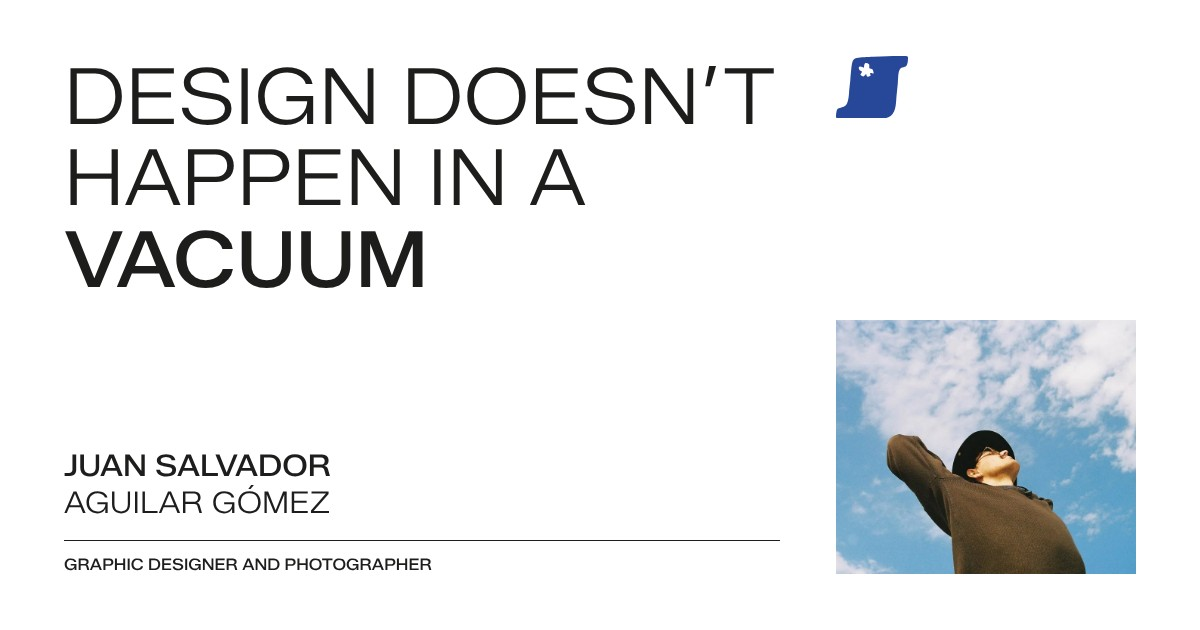
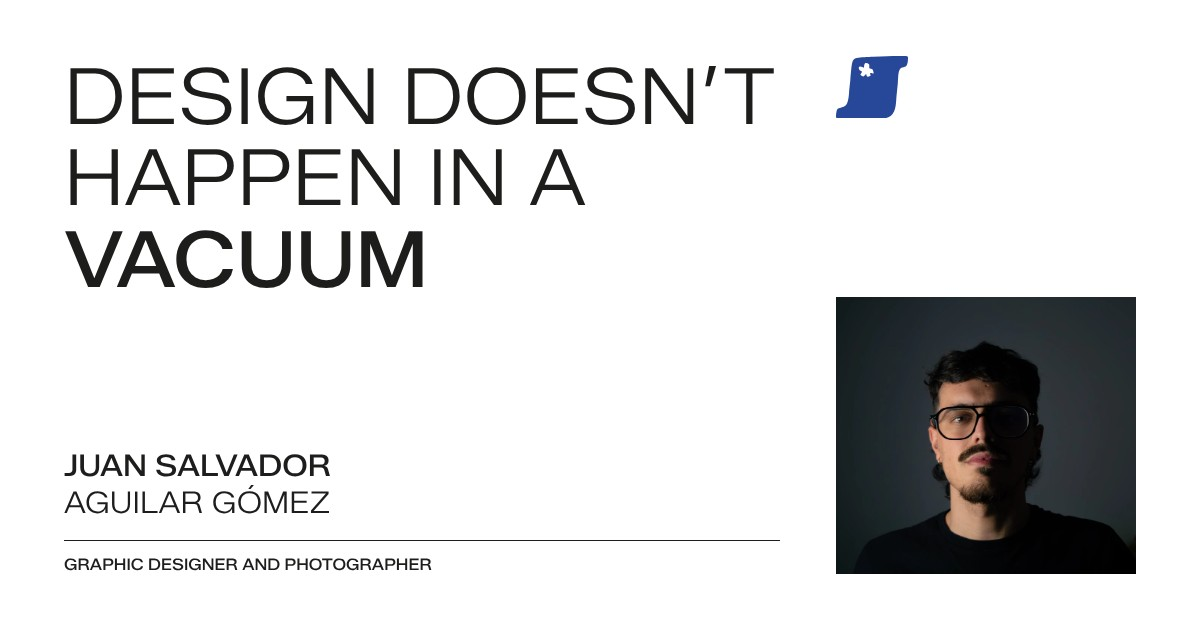
Portada: nuevo retrato, más grande
- Nuevo retrato de estudio en la portada (español e inglés), a todo el
  ancho de la columna izquierda y en su proporción natural, sin recortes;
  el nombre se apoya al pie, en la columna derecha
- En el móvil el retrato va justo después del titular
- Imágenes para compartir (og-inicio y og-inicio-en) con el nuevo retrato
- estilos.css y main.js pasan a ?v=4

Claude-Session: https://claude.ai/code/session_01HuDwLzzWs2oMCfxJ9c2L33

Changed region(s): [[0.6783, 0.4524, 0.9558, 0.9349]]

diff --git a/index.html b/index.html
@@ -25,9 +25,9 @@
 <link rel="icon" href="favicon-32.png" sizes="32x32" type="image/png">
 <link rel="apple-touch-icon" href="apple-touch-icon.png">
 <link rel="preload" href="fonts/zalando-sans-semiexpanded.woff2" as="font" type="font/woff2" crossorigin>
-<link rel="stylesheet" href="css/estilos.css?v=3">
+<link rel="stylesheet" href="css/estilos.css?v=4">
 <script>document.documentElement.classList.add('js')</script>
-<script src="js/main.js?v=3" defer></script>
+<script src="js/main.js?v=4" defer></script>
 </head>
 <body>
 <div class="web" data-theme="blanco" id="inicio" lang="es">
@@ -44,7 +44,7 @@
 <section aria-labelledby="titular" class="contenedor heroe">
 <h1 class="titulo titular" data-anim="palabras" id="titular"><span class="palabra"><span class="palabra__interior">EL</span></span> <span class="palabra"><span class="palabra__interior">DISEÑO</span></span> <span class="palabra"><span class="palabra__interior">NO</span></span> <span class="palabra"><span class="palabra__interior">OCURRE</span></span> <span class="palabra"><span class="palabra__interior">EN</span></span> <span class="palabra"><span class="palabra__interior">EL</span></span> <span class="titulo-fuerte"><span class="palabra"><span class="palabra__interior">VACÍO</span></span></span></h1>
 <div class="dos-columnas heroe__pie">
-<img alt="Juan Salvador, con sombrero negro y jersey marrón, mira al cielo con el brazo tras la cabeza" class="retrato" data-anim="telon" decoding="async" fetchpriority="high" height="672" src="img/retrato-juan-salvador.webp" style="object-position: 50% 50%" width="794"/>
+<img alt="Retrato de Juan Salvador con gafas de pasta negras y camiseta negra, iluminado de lado sobre un fondo gris oscuro" class="retrato" data-anim="telon" decoding="async" fetchpriority="high" height="2378" sizes="(max-width: 900px) 100vw, 50vw" src="img/retrato-juan-salvador-estudio-1400.webp" srcset="img/retrato-juan-salvador-estudio-800.webp 800w, img/retrato-juan-salvador-estudio-1400.webp 1400w, img/retrato-juan-salvador-estudio-2000.webp 2000w, img/retrato-juan-salvador-estudio-2400.webp 2400w" width="2576"/>
 <div class="heroe__nombre">
 <header class="jsd-cabecera"><p class="subtitulo" data-anim="subir">JUAN SALVADOR</p><p class="subtitulo-ligero" data-anim="subir">AGUILAR GÓMEZ</p><hr class="jsd-filete" data-anim="filete"/></header>
 <p class="etiqueta" data-anim="subir">DISEÑADOR GRÁFICO Y FOTÓGRAFO</p>

diff --git a/en/index.html b/en/index.html
@@ -25,9 +25,9 @@
 <link rel="icon" href="../favicon-32.png" sizes="32x32" type="image/png">
 <link rel="apple-touch-icon" href="../apple-touch-icon.png">
 <link rel="preload" href="../fonts/zalando-sans-semiexpanded.woff2" as="font" type="font/woff2" crossorigin>
-<link rel="stylesheet" href="../css/estilos.css?v=3">
+<link rel="stylesheet" href="../css/estilos.css?v=4">
 <script>document.documentElement.classList.add('js')</script>
-<script src="../js/main.js?v=3" defer></script>
+<script src="../js/main.js?v=4" defer></script>
 </head>
 <body>
 
@@ -45,7 +45,7 @@
 <section aria-labelledby="titular" class="contenedor heroe">
 <h1 class="titulo titular" data-anim="palabras" id="titular"><span class="palabra"><span class="palabra__interior">DESIGN</span></span> <span class="palabra"><span class="palabra__interior">DOESN’T</span></span> <span class="palabra"><span class="palabra__interior">HAPPEN</span></span> <span class="palabra"><span class="palabra__interior">IN</span></span> <span class="palabra"><span class="palabra__interior">A</span></span> <span class="titulo-fuerte"><span class="palabra"><span class="palabra__interior">VACUUM</span></span></span></h1>
 <div class="dos-columnas heroe__pie">
-<img alt="Juan Salvador, wearing a black hat and a brown jumper, looks up at the sky with his arm behind his head" class="retrato" data-anim="telon" decoding="async" fetchpriority="high" height="672" src="../img/retrato-juan-salvador.webp" style="object-position: 50% 50%" width="794"/>
+<img alt="Portrait of Juan Salvador in black-framed glasses and a black T-shirt, side-lit against a dark grey background" class="retrato" data-anim="telon" decoding="async" fetchpriority="high" height="2378" sizes="(max-width: 900px) 100vw, 50vw" src="../img/retrato-juan-salvador-estudio-1400.webp" srcset="../img/retrato-juan-salvador-estudio-800.webp 800w, ../img/retrato-juan-salvador-estudio-1400.webp 1400w, ../img/retrato-juan-salvador-estudio-2000.webp 2000w, ../img/retrato-juan-salvador-estudio-2400.webp 2400w" width="2576"/>
 <div class="heroe__nombre">
 <header class="jsd-cabecera"><p class="subtitulo" data-anim="subir">JUAN SALVADOR</p><p class="subtitulo-ligero" data-anim="subir">AGUILAR GÓMEZ</p><hr class="jsd-filete" data-anim="filete"/></header>
 <p class="etiqueta" data-anim="subir">GRAPHIC DESIGNER AND PHOTOGRAPHER</p>

diff --git a/css/estilos.css b/css/estilos.css
@@ -194,7 +194,8 @@
   .navegacion .etiqueta { font-size: 15px; }
 }
 
-/* Héroe: titular a todo el ancho; retrato y nombre en la retícula */
+/* Héroe: titular a todo el ancho; debajo, el retrato ocupa toda la columna
+   izquierda y el nombre se apoya al pie de la derecha */
 .heroe {
   display: flex;
   flex-direction: column;
@@ -204,7 +205,7 @@
   padding-bottom: var(--espacio-seccion);
 }
 .titular { max-width: 9.6em; }
-.heroe__pie { align-items: start; }
+.heroe__pie { align-items: end; }
 
 /* Marcadores de imagen (pendientes de foto): fondo secundario, ángulo recto */
 .marcador {
@@ -216,15 +217,18 @@
   color: var(--negro);
   border-radius: var(--radio-recto);
 }
+/* Retrato de la portada: a todo el ancho de su columna y en su proporción
+   natural (2576 × 2378), sin recortes. Mientras carga, fondo negro como el de
+   la foto, para que no destelle. */
 .retrato {
   display: block;
-  width: min(331px, 100%);
+  width: 100%;
   height: auto;
-  aspect-ratio: 331 / 280;
+  aspect-ratio: 2576 / 2378;
   object-fit: cover;
   object-position: 50% 50%;
   border-radius: var(--radio-recto);
-  background: var(--secundario);
+  background: var(--negro);
 }
 
 /* Introducción: cita a la izquierda, texto a la derecha */
@@ -689,7 +693,6 @@
 /* Pantallas estrechas: una columna */
 @media (max-width: 900px) {
   .dos-columnas { grid-template-columns: minmax(0, 1fr); row-gap: var(--espacio-medianil); }
-  .heroe__pie .retrato { order: 2; }
   .proyectos__rejilla {
     grid-template-columns: minmax(0, 1fr);
     grid-template-rows: none;

diff --git a/404.html b/404.html
@@ -10,9 +10,9 @@
 <link rel="icon" href="/favicon-32.png" sizes="32x32" type="image/png">
 <link rel="apple-touch-icon" href="/apple-touch-icon.png">
 <link rel="preload" href="/fonts/zalando-sans-semiexpanded.woff2" as="font" type="font/woff2" crossorigin>
-<link rel="stylesheet" href="/css/estilos.css?v=3">
+<link rel="stylesheet" href="/css/estilos.css?v=4">
 <script>document.documentElement.classList.add('js')</script>
-<script src="/js/main.js?v=3" defer></script>
+<script src="/js/main.js?v=4" defer></script>
 </head>
 <body>
 <div class="web" data-theme="blanco" id="inicio" lang="es">

diff --git a/congreso-aja.html b/congreso-aja.html
@@ -25,9 +25,9 @@
 <link rel="icon" href="favicon-32.png" sizes="32x32" type="image/png">
 <link rel="apple-touch-icon" href="apple-touch-icon.png">
 <link rel="preload" href="fonts/zalando-sans-semiexpanded.woff2" as="font" type="font/woff2" crossorigin>
-<link rel="stylesheet" href="css/estilos.css?v=3">
+<link rel="stylesheet" href="css/estilos.css?v=4">
 <script>document.documentElement.classList.add('js')</script>
-<script src="js/main.js?v=3" defer></script>
+<script src="js/main.js?v=4" defer></script>
 </head>
 <body>
 <div class="web" data-theme="blanco" id="inicio" lang="es">

diff --git a/creativelab.html b/creativelab.html
@@ -25,9 +25,9 @@
 <link rel="icon" href="favicon-32.png" sizes="32x32" type="image/png">
 <link rel="apple-touch-icon" href="apple-touch-icon.png">
 <link rel="preload" href="fonts/zalando-sans-semiexpanded.woff2" as="font" type="font/woff2" crossorigin>
-<link rel="stylesheet" href="css/estilos.css?v=3">
+<link rel="stylesheet" href="css/estilos.css?v=4">
 <script>document.documentElement.classList.add('js')</script>
-<script src="js/main.js?v=3" defer></script>
+<script src="js/main.js?v=4" defer></script>
 </head>
 <body>
 <div class="web" data-theme="blanco" id="inicio" lang="es">

diff --git a/lanjaron.html b/lanjaron.html
@@ -25,9 +25,9 @@
 <link rel="icon" href="favicon-32.png" sizes="32x32" type="image/png">
 <link rel="apple-touch-icon" href="apple-touch-icon.png">
 <link rel="preload" href="fonts/zalando-sans-semiexpanded.woff2" as="font" type="font/woff2" crossorigin>
-<link rel="stylesheet" href="css/estilos.css?v=3">
+<link rel="stylesheet" href="css/estilos.css?v=4">
 <script>document.documentElement.classList.add('js')</script>
-<script src="js/main.js?v=3" defer></script>
+<script src="js/main.js?v=4" defer></script>
 </head>
 <body>
 <div class="web" data-theme="blanco" id="inicio" lang="es">

diff --git a/life-interchanging-films.html b/life-interchanging-films.html
@@ -25,9 +25,9 @@
 <link rel="icon" href="favicon-32.png" sizes="32x32" type="image/png">
 <link rel="apple-touch-icon" href="apple-touch-icon.png">
 <link rel="preload" href="fonts/zalando-sans-semiexpanded.woff2" as="font" type="font/woff2" crossorigin>
-<link rel="stylesheet" href="css/estilos.css?v=3">
+<link rel="stylesheet" href="css/estilos.css?v=4">
 <script>document.documentElement.classList.add('js')</script>
-<script src="js/main.js?v=3" defer></script>
+<script src="js/main.js?v=4" defer></script>
 </head>
 <body>
 <div class="web" data-theme="blanco" id="inicio" lang="es">

diff --git a/sangre-del-sur.html b/sangre-del-sur.html
@@ -25,9 +25,9 @@
 <link rel="icon" href="favicon-32.png" sizes="32x32" type="image/png">
 <link rel="apple-touch-icon" href="apple-touch-icon.png">
 <link rel="preload" href="fonts/zalando-sans-semiexpanded.woff2" as="font" type="font/woff2" crossorigin>
-<link rel="stylesheet" href="css/estilos.css?v=3">
+<link rel="stylesheet" href="css/estilos.css?v=4">
 <script>document.documentElement.classList.add('js')</script>
-<script src="js/main.js?v=3" defer></script>
+<script src="js/main.js?v=4" defer></script>
 </head>
 <body>
 <div class="web" data-theme="blanco" id="inicio" lang="es">

diff --git a/surtopias.html b/surtopias.html
@@ -25,9 +25,9 @@
 <link rel="icon" href="favicon-32.png" sizes="32x32" type="image/png">
 <link rel="apple-touch-icon" href="apple-touch-icon.png">
 <link rel="preload" href="fonts/zalando-sans-semiexpanded.woff2" as="font" type="font/woff2" crossorigin>
-<link rel="stylesheet" href="css/estilos.css?v=3">
+<link rel="stylesheet" href="css/estilos.css?v=4">
 <script>document.documentElement.classList.add('js')</script>
-<script src="js/main.js?v=3" defer></script>
+<script src="js/main.js?v=4" defer></script>
 </head>
 <body>
 <div class="web" data-theme="blanco" id="inicio" lang="es">

diff --git a/en/congreso-aja.html b/en/congreso-aja.html
@@ -25,9 +25,9 @@
 <link rel="icon" href="../favicon-32.png" sizes="32x32" type="image/png">
 <link rel="apple-touch-icon" href="../apple-touch-icon.png">
 <link rel="preload" href="../fonts/zalando-sans-semiexpanded.woff2" as="font" type="font/woff2" crossorigin>
-<link rel="stylesheet" href="../css/estilos.css?v=3">
+<link rel="stylesheet" href="../css/estilos.css?v=4">
 <script>document.documentElement.classList.add('js')</script>
-<script src="../js/main.js?v=3" defer></script>
+<script src="../js/main.js?v=4" defer></script>
 </head>
 <body>
 

diff --git a/en/creativelab.html b/en/creativelab.html
@@ -25,9 +25,9 @@
 <link rel="icon" href="../favicon-32.png" sizes="32x32" type="image/png">
 <link rel="apple-touch-icon" href="../apple-touch-icon.png">
 <link rel="preload" href="../fonts/zalando-sans-semiexpanded.woff2" as="font" type="font/woff2" crossorigin>
-<link rel="stylesheet" href="../css/estilos.css?v=3">
+<link rel="stylesheet" href="../css/estilos.css?v=4">
 <script>document.documentElement.classList.add('js')</script>
-<script src="../js/main.js?v=3" defer></script>
+<script src="../js/main.js?v=4" defer></script>
 </head>
 <body>
 
